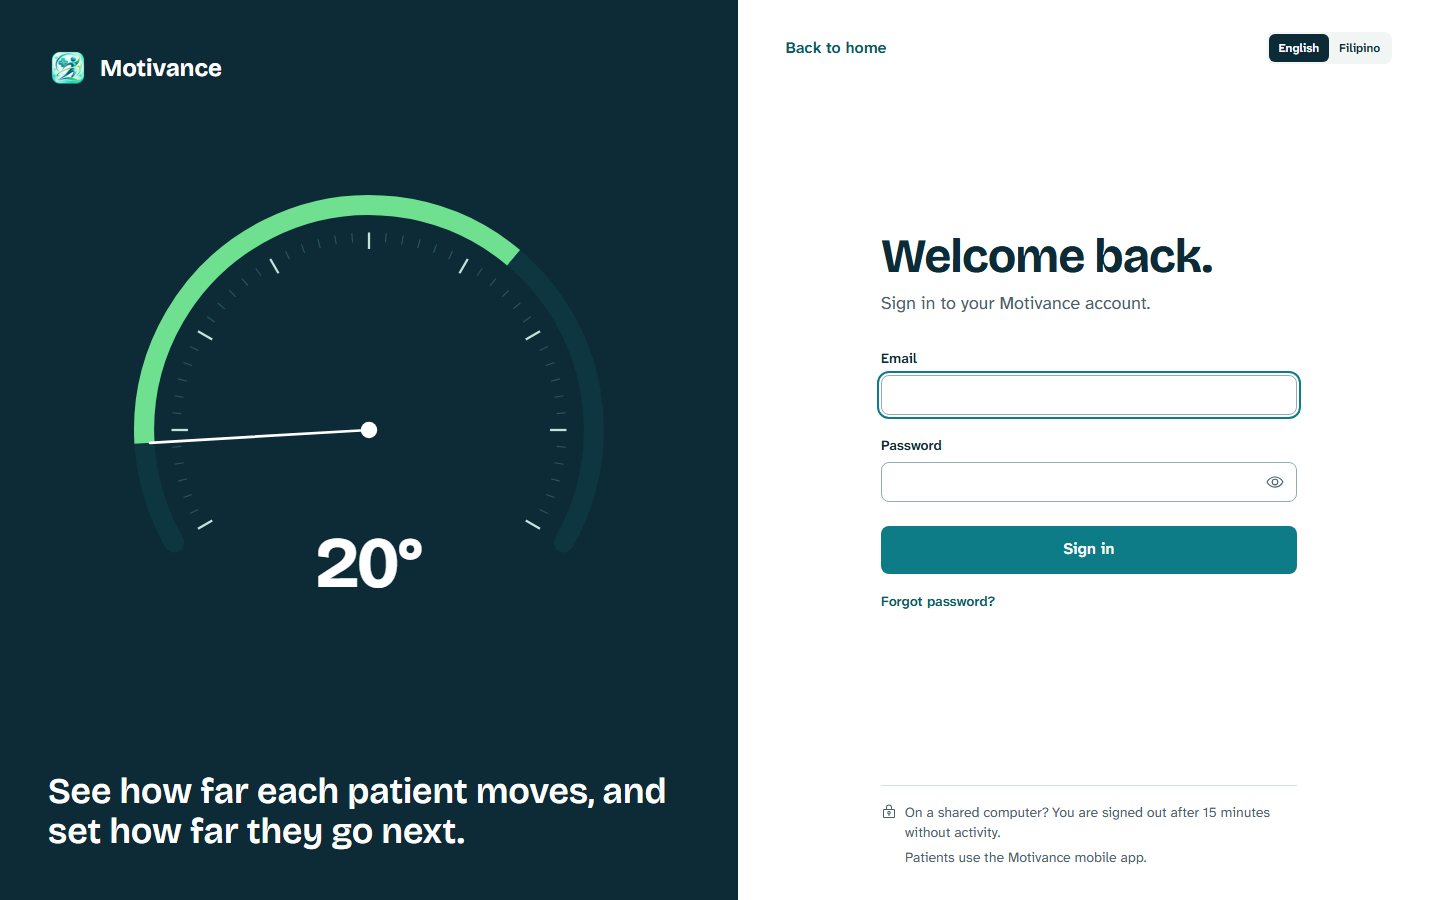
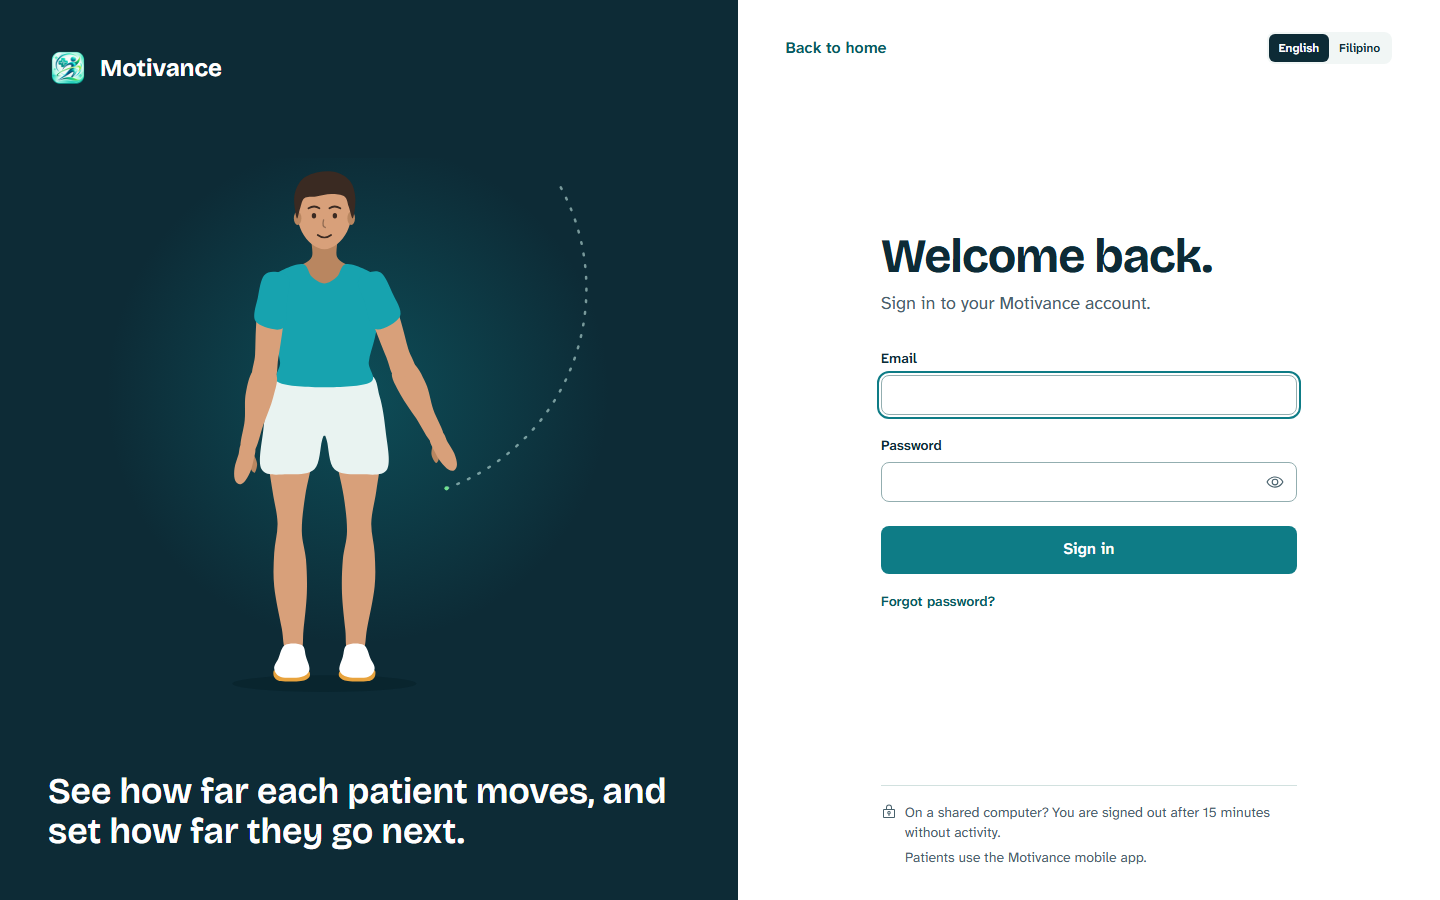
feat: replace the sign-in dial with a model person
The dial read as a car speedometer. A person now answers the form instead:
their arm rises along an arc as the form is completed and eases down on an
error. The body is drawn from curved anatomical outlines.

Changed region(s): [[0.0938, 0.1867, 0.375, 0.7778]]

diff --git a/web/src/auth/FormFigure.tsx b/web/src/auth/FormFigure.tsx
@@ -1,0 +1,137 @@
+import { animate, m as motion, useMotionValue, useMotionValueEvent, useReducedMotion, useTransform } from 'motion/react'
+import { useEffect, useRef, type Ref } from 'react'
+import { spring } from '@/motion/tokens'
+
+type Point = readonly [number, number]
+
+/** A closed curve through the points, so the body has soft anatomical lines and no mechanical joints. */
+function smooth(points: readonly Point[]) {
+  const at = (index: number) => points[(index + points.length) % points.length]!
+  let path = `M${at(0)[0]} ${at(0)[1]}`
+  points.forEach((_, index) => {
+    const [a, b, c, d] = [at(index - 1), at(index), at(index + 1), at(index + 2)]
+    path += `C${b[0] + (c[0] - a[0]) / 6} ${b[1] + (c[1] - a[1]) / 6} ${c[0] - (d[0] - b[0]) / 6} ${c[1] - (d[1] - b[1]) / 6} ${c[0]} ${c[1]}`
+  })
+  return `${path}Z`
+}
+
+/** Mirrors the right half of a shape across the body's centre line. Points on the centre line are not repeated. */
+const both = (half: readonly Point[]): Point[] => [...half, ...[...half].reverse().filter(([x]) => x !== 0).map(([x, y]): Point => [-x, y])]
+const flip = (shape: readonly Point[]) => shape.map(([x, y]): Point => [-x, y])
+
+const FACE = smooth(both([[0, 49], [19, 52], [30, 68], [32, 90], [27, 108], [15, 123], [0, 129]]))
+const HAIR = smooth([[-33, 92], [-36, 66], [-27, 46], [-8, 37], [14, 37], [31, 48], [37, 68], [34, 92], [29, 78], [24, 66], [8, 63], [-10, 66], [-24, 68], [-29, 80]])
+const NECK = smooth(both([[14, 108], [15, 138], [30, 152], [12, 170], [0, 174]]))
+const SHIRT = smooth(both([[0, 170], [15, 162], [25, 147], [48, 153], [67, 168], [66, 205], [60, 236], [53, 264], [55, 288], [0, 294]]))
+const SHORTS = smooth(both([[0, 282], [53, 278], [66, 305], [73, 345], [75, 392], [44, 398], [12, 392], [3, 358], [0, 352]]))
+const LEG: readonly Point[] = [[66, 330], [68, 372], [62, 418], [56, 456], [60, 492], [60, 532], [51, 582], [46, 608], [28, 608], [25, 584], [21, 540], [22, 500], [27, 466], [23, 424], [13, 372], [14, 330]]
+const SHOE: readonly Point[] = [[27, 602], [47, 602], [55, 618], [60, 630], [52, 640], [28, 640], [18, 632], [22, 616]]
+const SOLE: readonly Point[] = [[19, 633], [28, 638], [52, 638], [60, 632], [60, 640], [52, 645], [28, 645], [18, 640]]
+
+// An arm hangs from its shoulder at (0, 0), and each part hangs from the joint above it.
+const UPPER_ARM = smooth([[-14, -13], [0, -19], [14, -13], [18, 12], [17, 48], [14, 82], [13, 108], [-12, 108], [-14, 82], [-15, 44], [-15, 10]])
+const SLEEVE = smooth([[-15, -14], [0, -20], [15, -14], [19, 12], [18, 42], [-15, 46], [-16, 10]])
+const FOREARM = smooth([[-13, -6], [-16, 22], [-12, 56], [-8, 90], [8, 90], [11, 56], [17, 24], [13, -6]])
+const HAND = smooth([[-8, -3], [-10, 14], [-9, 28], [-5, 40], [1, 44], [7, 39], [10, 26], [9, 10], [8, -3]])
+const THUMB = smooth([[-8, 6], [-15, 15], [-15, 26], [-10, 24], [-7, 17]])
+
+const SHOULDER_X = 59
+const SHOULDER_Y = 176
+const ELBOW = 106
+const WRIST = 88
+const REACH = ELBOW + WRIST + 44
+const CENTER = 232
+
+/** Where a raised arm's fingertip travels, measured from the arm hanging at the side. */
+function sweep(from: number, to: number, radius: number) {
+  const point = (degrees: number) => {
+    const radians = (degrees * Math.PI) / 180
+    return `${(SHOULDER_X + Math.sin(radians) * radius).toFixed(1)} ${(SHOULDER_Y + Math.cos(radians) * radius).toFixed(1)}`
+  }
+  return `M${point(from)}A${radius} ${radius} 0 0 0 ${point(to)}`
+}
+
+function Arm({ upper, fore, shoulder, elbow, side = 1 }: { upper?: Ref<SVGGElement>; fore?: Ref<SVGGElement>; shoulder: number; elbow: number; side?: 1 | -1 }) {
+  return (
+    <g transform={`translate(${SHOULDER_X * side} ${SHOULDER_Y}) scale(${side} 1)`}>
+      <g ref={upper} transform={`rotate(${-shoulder})`}>
+        <g transform={`translate(0 ${ELBOW})`}>
+          <g ref={fore} transform={`rotate(${-elbow})`}>
+            <path d={FOREARM} className="fill-figure-skin" />
+            <g transform={`translate(0 ${WRIST})`}><path d={THUMB} className="fill-figure-shade" /><path d={HAND} className="fill-figure-skin" /></g>
+          </g>
+        </g>
+        <path d={UPPER_ARM} className="fill-figure-skin" />
+        <path d={SLEEVE} className="fill-figure-shirt" />
+      </g>
+    </g>
+  )
+}
+
+const elbowFor = (shoulder: number) => 5 + shoulder * 0.08
+
+/** The model person answers the form: the arm rests low, rises as the form is completed, and eases down again on an error. */
+export function FormFigure({ reach, band, compact }: { reach: number; band: readonly [number, number]; compact?: boolean }) {
+  const reduced = useReducedMotion()
+  const value = useMotionValue(reduced ? reach : band[0])
+  const upper = useRef<SVGGElement>(null)
+  const fore = useRef<SVGGElement>(null)
+  // The rotation goes straight on the SVG, because a CSS pivot cannot follow a joint inside nested groups.
+  const pose = (angle: number) => {
+    upper.current?.setAttribute('transform', `rotate(${-angle})`)
+    fore.current?.setAttribute('transform', `rotate(${-elbowFor(angle)})`)
+  }
+  useMotionValueEvent(value, 'change', pose)
+  const progress = useTransform(value, [band[0], band[1]], [0, 1])
+  useEffect(() => {
+    if (reduced) {
+      value.jump(reach)
+      pose(reach)
+      return
+    }
+    const controls = animate(value, reach, spring.layout)
+    return () => controls.stop()
+  }, [reach, reduced, value])
+  const path = sweep(band[0], band[1], REACH + 16)
+  return (
+    <svg aria-hidden viewBox={compact ? '30 20 530 310' : '0 20 570 650'} className={compact ? 'h-44 w-auto' : 'size-full max-h-[34rem]'}>
+      <defs>
+        <radialGradient id="figure-glow">
+          <stop offset="0" stopColor="var(--color-lagoon)" stopOpacity="0.42" />
+          <stop offset="1" stopColor="var(--color-lagoon)" stopOpacity="0" />
+        </radialGradient>
+      </defs>
+      <circle cx={CENTER + 40} cy={300} r={300} fill="url(#figure-glow)" />
+      <g transform={`translate(${CENTER} 0)`}>
+        <ellipse cx={0} cy={648} rx={110} ry={10} className="fill-night" opacity={0.6} />
+        <path d={path} fill="none" strokeWidth={3} strokeDasharray="2 12" strokeLinecap="round" className="stroke-night-ink" opacity={0.6} />
+        <motion.path d={path} fill="none" strokeWidth={5} strokeLinecap="round" className="stroke-sprout-bright" style={{ pathLength: progress }} />
+        {[1, -1].map((side) => (
+          <g key={side}>
+            <path d={smooth(side === 1 ? LEG : flip(LEG))} className="fill-figure-skin" />
+            <path d={smooth(side === 1 ? SOLE : flip(SOLE))} className="fill-amber" />
+            <path d={smooth(side === 1 ? SHOE : flip(SHOE))} className="fill-paper" />
+          </g>
+        ))}
+        <path d={SHORTS} className="fill-figure-shorts" />
+        <path d={NECK} className="fill-figure-shade" />
+        <path d={SHIRT} className="fill-figure-shirt" />
+        <path d={FACE} className="fill-figure-skin" />
+        <ellipse cx={-32} cy={92} rx={4.5} ry={8} className="fill-figure-shade" />
+        <ellipse cx={32} cy={92} rx={4.5} ry={8} className="fill-figure-shade" />
+        <path d={HAIR} className="fill-figure-hair" />
+        <g className="fill-figure-hair">
+          <ellipse cx={-12.5} cy={89} rx={2.6} ry={3.2} />
+          <ellipse cx={12.5} cy={89} rx={2.6} ry={3.2} />
+        </g>
+        <g fill="none" strokeLinecap="round" className="stroke-figure-hair">
+          <path d="M-19 80Q-12 76-6 80M6 80Q12 76 19 80" strokeWidth={2.2} />
+          <path d="M-1 94Q-3 102 1 103" strokeWidth={1.6} opacity={0.45} />
+          <path d="M-8 112Q0 118 8 112" strokeWidth={2} />
+        </g>
+        <Arm side={-1} shoulder={7} elbow={6} />
+        <Arm upper={upper} fore={fore} shoulder={band[0]} elbow={elbowFor(band[0])} />
+      </g>
+    </svg>
+  )
+}

diff --git a/web/src/auth/SignInPage.tsx b/web/src/auth/SignInPage.tsx
@@ -1,6 +1,6 @@
 import { LockKeyIcon } from '@phosphor-icons/react'
-import { AnimatePresence, animate, m as motion, useMotionValue, useReducedMotion, useTransform } from 'motion/react'
-import { useEffect, useRef, useState, type FormEvent, type KeyboardEvent } from 'react'
+import { AnimatePresence, m as motion, useReducedMotion } from 'motion/react'
+import { useRef, useState, type FormEvent, type KeyboardEvent } from 'react'
 import { useTranslation } from 'react-i18next'
 import { Link } from 'react-router'
 import { Button } from '@/components/Button'
@@ -9,53 +9,12 @@ import { PasswordField, TextField } from '@/components/Field'
 import { recoveryClient, supabase } from '@/data/client'
 import { failureKey } from '@/data/errors'
 import { LanguageSwitch } from '@/layout/LanguageSwitch'
-import { FACE_START, FACE_SWEEP, arcPath, faceAngle, polar } from '@/motion/geometry'
-import { duration, ease, spring } from '@/motion/tokens'
+import { duration, ease } from '@/motion/tokens'
 import { useAuth } from './AuthProvider'
+import { FormFigure } from './FormFigure'
 
 const EMAIL = /^[^\s@]+@[^\s@]+\.[^\s@]+$/
-const SIZE = 560
-const C = SIZE / 2
-const R = C - 34
 const BAND: readonly [number, number] = [20, 120]
-
-/** The needle answers the form: it rests low, climbs as the form is completed and drops back on an error. */
-function FormDial({ reach, compact }: { reach: number; compact?: boolean }) {
-  const reduced = useReducedMotion()
-  const value = useMotionValue(reduced ? reach : 0)
-  const reading = useTransform(value, (latest) => `${Math.round(latest)}°`)
-  const rotate = useTransform(value, (latest) => faceAngle(latest))
-  useEffect(() => {
-    if (reduced) {
-      value.jump(reach)
-      return
-    }
-    const controls = animate(value, reach, spring.needle)
-    return () => controls.stop()
-  }, [reach, reduced, value])
-  const ticks = Array.from({ length: 49 }, (_, index) => index)
-  return (
-    <div aria-hidden className={compact ? 'relative aspect-square w-40' : 'relative aspect-square w-full max-w-[32rem]'}>
-      <svg viewBox={`0 0 ${SIZE} ${SIZE}`} className="size-full overflow-visible">
-        {ticks.map((index) => {
-          const angle = FACE_START + (FACE_SWEEP / 48) * index
-          const major = index % 6 === 0
-          const a = polar(C, C, R - 30, angle)
-          const b = polar(C, C, R - (major ? 48 : 40), angle)
-          return <line key={index} x1={a.x} y1={a.y} x2={b.x} y2={b.y} strokeWidth={major ? 2.5 : 1.25} className={major ? 'stroke-night-ink' : 'stroke-night-line'} />
-        })}
-        <path d={arcPath(C, C, R, FACE_START, FACE_START + FACE_SWEEP)} fill="none" strokeWidth={22} strokeLinecap="round" className="stroke-night-panel" />
-        <motion.path d={arcPath(C, C, R, faceAngle(BAND[0]), faceAngle(BAND[1]))} fill="none" strokeWidth={22} strokeLinecap="butt" className="stroke-sprout-bright"
-          initial={reduced ? false : { pathLength: 0 }} animate={{ pathLength: 1 }} transition={{ duration: duration.sweep, ease: ease.inOut, delay: 0.1 }} />
-        <motion.g style={{ rotate, transformOrigin: `${C}px ${C}px`, transformBox: 'view-box' }}>
-          <line x1={C} y1={C} x2={C + R - 6} y2={C} strokeWidth={3} strokeLinecap="round" className="stroke-paper" />
-        </motion.g>
-        <circle cx={C} cy={C} r={9} className="fill-paper" />
-      </svg>
-      <motion.span className={compact ? 'numeric absolute inset-x-0 bottom-[14%] text-center text-2xl font-bold text-paper' : 'numeric absolute inset-x-0 bottom-[17%] text-center text-6xl font-bold text-paper'}>{reading}</motion.span>
-    </div>
-  )
-}
 
 type Step = 'signIn' | 'requestCode' | 'newPassword'
 
@@ -152,7 +111,7 @@ export function SignInPage({ notice }: { notice?: 'idle' | 'disabled' }) {
           <img src="/logo-96.png" alt="" width={40} height={40} className="rounded-lg" />
           <span className="font-display text-2xl font-bold">Motivance</span>
         </Link>
-        <div className="grid place-items-center py-6"><FormDial reach={reach} /></div>
+        <div className="grid min-h-0 flex-1 place-items-center py-4"><FormFigure reach={reach} band={BAND} /></div>
         <p className="max-w-[30ch] font-display text-3xl font-semibold">{t('auth.promise')}</p>
       </aside>
       <main className="flex flex-col px-6 py-6 tablet:px-12 tablet:py-8">
@@ -165,7 +124,7 @@ export function SignInPage({ notice }: { notice?: 'idle' | 'disabled' }) {
           <LanguageSwitch />
         </div>
         <div className="mx-auto flex w-full max-w-[26rem] flex-1 flex-col justify-center py-8">
-          <div className="on-dark mb-6 grid place-items-center rounded-stage bg-ink py-3 desk:hidden"><FormDial reach={reach} compact /></div>
+          <div className="on-dark mb-6 grid place-items-center rounded-stage bg-ink py-3 desk:hidden"><FormFigure reach={reach} band={BAND} compact /></div>
           <AnimatePresence mode="wait" initial={false}>
             <motion.div key={step} initial={{ opacity: 0, x: reduced ? 0 : 16 }} animate={{ opacity: 1, x: 0 }} exit={{ opacity: 0, x: reduced ? 0 : -10 }} transition={{ duration: duration.standard, ease: ease.out }}>
               {step !== 'signIn' && <p className="mb-2 font-semibold text-lagoon-deep">{t('auth.recoveryStep', { step: step === 'requestCode' ? 1 : 2 })}</p>}

diff --git a/web/tests/e2e/design.spec.ts b/web/tests/e2e/design.spec.ts
@@ -66,6 +66,29 @@ test('a toast appears at the top right, below the top bar', async ({ page }) => 
   expect(box.y).toBeLessThan(100)
 })
 
+test('the model person raises an arm as the sign-in form is completed', async ({ page }) => {
+  await page.setViewportSize({ width: 1440, height: 900 })
+  await page.goto('/design/sign-in')
+  const arm = page.locator('aside svg g[transform^="rotate"]').nth(2)
+  const angle = async () => Math.abs(Number(/rotate\((-?[\d.]+)\)/.exec((await arm.getAttribute('transform'))!)![1]))
+  await expect.poll(angle).toBeLessThan(25)
+  await page.getByLabel('Email').fill('dana@example.test')
+  await expect.poll(angle).toBeGreaterThan(55)
+  await page.getByLabel('Password', { exact: true }).fill('a-password')
+  await expect.poll(angle).toBeGreaterThan(105)
+  await page.getByLabel('Password', { exact: true }).fill('')
+  await expect.poll(angle).toBeLessThan(80)
+})
+
+test('with reduced motion the figure goes straight to its position', async ({ page }) => {
+  await page.emulateMedia({ reducedMotion: 'reduce' })
+  await page.setViewportSize({ width: 1440, height: 900 })
+  await page.goto('/design/sign-in')
+  await page.getByLabel('Email').fill('dana@example.test')
+  await page.getByLabel('Password', { exact: true }).fill('a-password')
+  await expect(page.locator('aside svg g[transform^="rotate"]').nth(2)).toHaveAttribute('transform', 'rotate(-116)')
+})
+
 test('a swipe that starts on the movement demo still scrolls the page', async ({ page }) => {
   await page.goto('/design/landing')
   await expect(page.getByRole('group', { name: 'A sample skeleton measuring elbow flexion' })).toHaveCSS('touch-action', 'pan-y')
@@ -316,17 +339,6 @@ test.describe('public pages', () => {
     await expect(page.getByText('90°', { exact: true })).toBeVisible()
     await page.waitForTimeout(600)
     await expect(page.getByText('90°', { exact: true })).toBeVisible()
-  })
-
-  test('the sign-in needle climbs as the form is completed', async ({ page }) => {
-    await page.setViewportSize({ width: 1440, height: 900 })
-    await page.emulateMedia({ reducedMotion: 'reduce' })
-    await page.goto('/design/sign-in')
-    await expect(page.getByText('20°', { exact: true }).first()).toBeVisible()
-    await page.getByLabel('Email').fill('dana@example.test')
-    await expect(page.getByText('68°', { exact: true }).first()).toBeVisible()
-    await page.getByLabel('Password', { exact: true }).fill('secret')
-    await expect(page.getByText('116°', { exact: true }).first()).toBeVisible()
   })
 
   test('sign-in warns about Caps Lock', async ({ page }) => {

diff --git a/web/src/styles/tokens.css b/web/src/styles/tokens.css
@@ -22,6 +22,13 @@
   --color-night-ink: #bfe3dd;
   --color-night-caution: #ffc56b;
 
+  /* The model person, matching the Android guide */
+  --color-figure-skin: #d8a07a;
+  --color-figure-shade: #b98660;
+  --color-figure-hair: #3a2a22;
+  --color-figure-shirt: #17a3af;
+  --color-figure-shorts: #e9f3f1;
+
   /* Web additions */
   --color-paper: #ffffff;
   --color-transparent: transparent;

diff --git a/docs/architecture/WEB-DESIGN.md b/docs/architecture/WEB-DESIGN.md
@@ -9,7 +9,7 @@ A physical therapist measures a joint with a goniometer: a hinged protractor wit
 | Principle | What it means here |
 | --- | --- |
 | The measurement is the hero | Arcs and dials show real values. They are never decoration. |
-| Spend boldness in one place | One memorable moment per page: the sign-in dial, the home fan. The rest is disciplined. |
+| Spend boldness in one place | One memorable moment per page: the sign-in model person, the home fan. The rest is disciplined. |
 | Built for a desk | Mouse, keyboard and a wide screen come first. Lists are data tables, not stacked phone cards. |
 | Only interactive things rise | Panels stay flat. Only what opens something, like a stat card, lifts under the pointer. |
 | Motion explains | Movement shows what changed or where you went. It is never the only signal. |
@@ -82,7 +82,7 @@ Visitors reach the landing page at `/`; a signed-in account skips it and goes to
 
 - **Landing hero.** A front-facing skeleton measures elbow flexion by itself, and anyone can take the hand and move it, by pointer or arrow keys. The angle, the prescribed band and the repetition count respond using the same rule as the app. It is labelled as sample movement, and it stops playing when it leaves the screen or someone takes over.
 - **Landing content.** Three numbered steps (they really are a sequence), who each part is for, and the privacy facts in Android's own words. There are no statistics, logos or quotes, because the product has none yet.
-- **Sign-in dial.** The needle answers the form: it rests at 20 degrees, climbs as the form is completed, swings past its mark while signing in, and drops back on an error. Below the desk breakpoint it becomes a compact panel above the form.
+- **Sign-in model person.** A dial read as a car speedometer, so the owner replaced it with a person. Their arm rests low, rises through a soft arc as the form is completed, and eases down on an error. The body is one set of curved anatomical outlines rather than capsules, so it reads as human. It shows the same character as the Android guide, in the same clothes.
 - **Sign-in details.** Warns when Caps Lock is on, moves between sign-in and the two recovery steps with a short transition, and states the 15-minute sign-out for shared computers.
 
 ## Interaction
